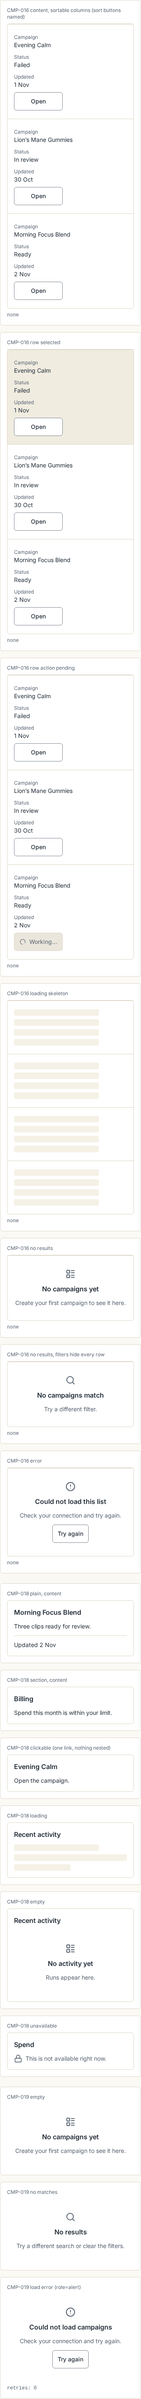
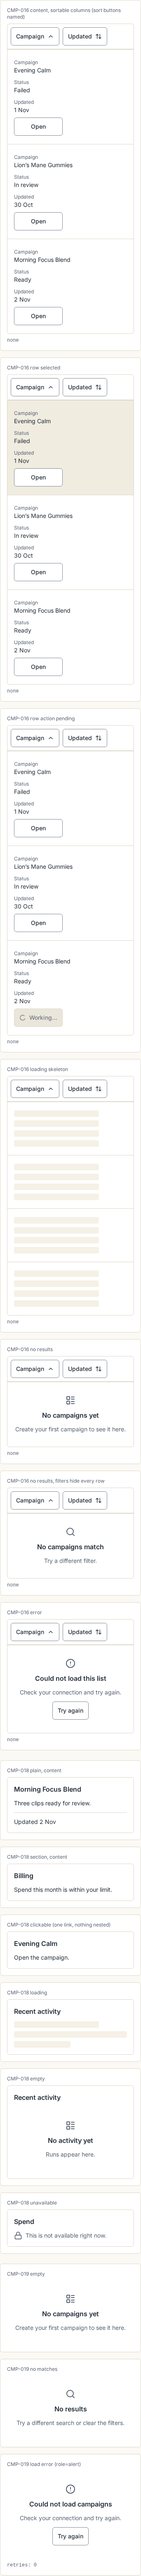
TASK-074: fix FE-074-01/02/03 (visible mobile sort group, explicit table roles, status live region)

diff --git a/packages/ui/src/components/cmp-016/Table.tsx b/packages/ui/src/components/cmp-016/Table.tsx
@@ -67,6 +67,7 @@ export function Table<T>({
   emptyAction,
   skeletonRows = 4,
 }: TableProps<T>) {
+  const sortable = columns.filter((c) => c.sortable);
   const span = columns.length + (rowAction ? 1 : 0);
   return (
     <div
@@ -75,14 +76,46 @@ export function Table<T>({
       aria-label={label}
       className="w-full overflow-x-auto rounded-md border border-border bg-card text-foreground max-md:overflow-x-visible"
     >
-      <table aria-label={label} aria-busy={state === 'loading' || undefined} className="w-full border-collapse text-ui max-md:block">
-        <thead className="bg-muted text-left max-md:sr-only">
-          <tr>
+      {sortable.length > 0 ? (
+        <div role="group" aria-label="Order list" className="flex flex-wrap gap-2 border-b border-border p-2 md:hidden">
+          {sortable.map((c) => {
+            const active = sort?.columnId === c.id ? sort.direction : undefined;
+            return (
+              <Button
+                key={c.id}
+                variant="outline"
+                size="sm"
+                aria-label={`Order by ${c.header}${active ? `, ${active}` : ''}`}
+                aria-pressed={active ? true : false}
+                onClick={() => onSortChange?.(c.id)}
+              >
+                {c.header}
+                <Icon
+                  name={active === 'ascending' ? 'chevron-up' : active === 'descending' ? 'chevron-down' : 'arrow-up-down'}
+                  size={16}
+                />
+              </Button>
+            );
+          })}
+        </div>
+      ) : null}
+      <div role="status" className="sr-only">
+        {state === 'loading' ? 'Loading' : ''}
+      </div>
+      <table
+        role="table"
+        aria-label={label}
+        aria-busy={state === 'loading' || undefined}
+        className="w-full border-collapse text-ui max-md:block"
+      >
+        <thead role="rowgroup" className="bg-muted text-left max-md:hidden">
+          <tr role="row">
             {columns.map((c) => {
               const active = sort?.columnId === c.id ? sort.direction : undefined;
               return (
                 <th
                   key={c.id}
+                  role="columnheader"
                   scope="col"
                   aria-sort={c.sortable ? (active ?? 'none') : undefined}
                   className="px-4 py-2 font-semibold"
@@ -107,31 +140,24 @@ export function Table<T>({
               );
             })}
             {rowAction ? (
-              <th scope="col" className="px-4 py-2 font-semibold">
+              <th role="columnheader" scope="col" className="px-4 py-2 font-semibold">
                 Actions
               </th>
             ) : null}
           </tr>
         </thead>
-        <tbody className="max-md:block">
+        <tbody role="rowgroup" className="max-md:block">
           {state === 'loading'
             ? Array.from({ length: skeletonRows }, (_, i) => (
-                <tr key={i} data-skeleton className="min-h-control-touch border-t border-border max-md:block max-md:p-4">
+                <tr key={i} role="row" data-skeleton className="min-h-control-touch border-t border-border max-md:block max-md:p-4">
                   {Array.from({ length: span }, (_, j) => (
-                    <td key={j} className={CELL}>
+                    <td key={j} role="cell" className={CELL}>
                       <span aria-hidden="true" className="block h-4 w-3/4 rounded-sm bg-muted motion-safe:animate-pulse" />
                     </td>
                   ))}
                 </tr>
               ))
             : null}
-          {state === 'loading' ? (
-            <tr className="sr-only">
-              <td colSpan={span} role="status">
-                Loading
-              </td>
-            </tr>
-          ) : null}
           {state === 'content'
             ? rows.map((row) => {
                 const key = rowKey(row);
@@ -140,12 +166,13 @@ export function Table<T>({
                 return (
                   <tr
                     key={key}
+                    role="row"
                     data-selected={selected || undefined}
                     aria-busy={pending || undefined}
                     className={`min-h-control-touch border-t border-border max-md:block max-md:p-4 ${selected ? 'bg-accent' : ''}`}
                   >
                     {columns.map((c, i) => (
-                      <td key={c.id} className={CELL}>
+                      <td key={c.id} role="cell" className={CELL}>
                         <span className="text-caption text-muted-foreground md:hidden">{c.header}</span>
                         <span className="block min-w-0 break-words">
                           {c.cell(row)}
@@ -154,7 +181,7 @@ export function Table<T>({
                       </td>
                     ))}
                     {rowAction ? (
-                      <td className={CELL}>
+                      <td role="cell" className={CELL}>
                         <Button
                           variant="outline"
                           size="sm"
@@ -171,8 +198,8 @@ export function Table<T>({
               })
             : null}
           {state === 'empty' || state === 'error' ? (
-            <tr className="border-t border-border max-md:block">
-              <td colSpan={span} className="max-md:block">
+            <tr role="row" className="border-t border-border max-md:block">
+              <td role="cell" colSpan={span} className="max-md:block">
                 {state === 'error' ? (
                   <EmptyState
                     variant="error"

diff --git a/packages/ui/src/components/cmp-016/Table.test.tsx b/packages/ui/src/components/cmp-016/Table.test.tsx
@@ -100,4 +100,21 @@ describe('gallery demos', () => {
     await userEvent.click(screen.getByRole('button', { name: 'Try again' }));
     expect(screen.getByTestId('retry-count')).toHaveTextContent('retries: 1');
   });
+
+  it('offers a visible sort group for narrow screens and explicit table roles', async () => {
+    const onSort = vi.fn();
+    const { container } = render(<Table {...base} sort={{ columnId: 'name', direction: 'ascending' }} onSortChange={onSort} />);
+    const group = screen.getByRole('group', { name: 'Order list' });
+    expect(group.className).toContain('md:hidden');
+    const btn = within(group).getByRole('button', { name: 'Order by Name, ascending' });
+    expect(btn).toHaveAttribute('aria-pressed', 'true');
+    await userEvent.click(btn);
+    expect(onSort).toHaveBeenCalledWith('name');
+    expect(container.querySelector('thead')?.className).toContain('max-md:hidden');
+    expect(container.querySelector('thead')?.className).not.toContain('sr-only');
+    expect(container.querySelector('tbody')).toHaveAttribute('role', 'rowgroup');
+    expect(container.querySelector('tbody tr')).toHaveAttribute('role', 'row');
+    expect(container.querySelector('tbody td')).toHaveAttribute('role', 'cell');
+    expect((await axe.run(container)).violations).toEqual([]);
+  });
 });
